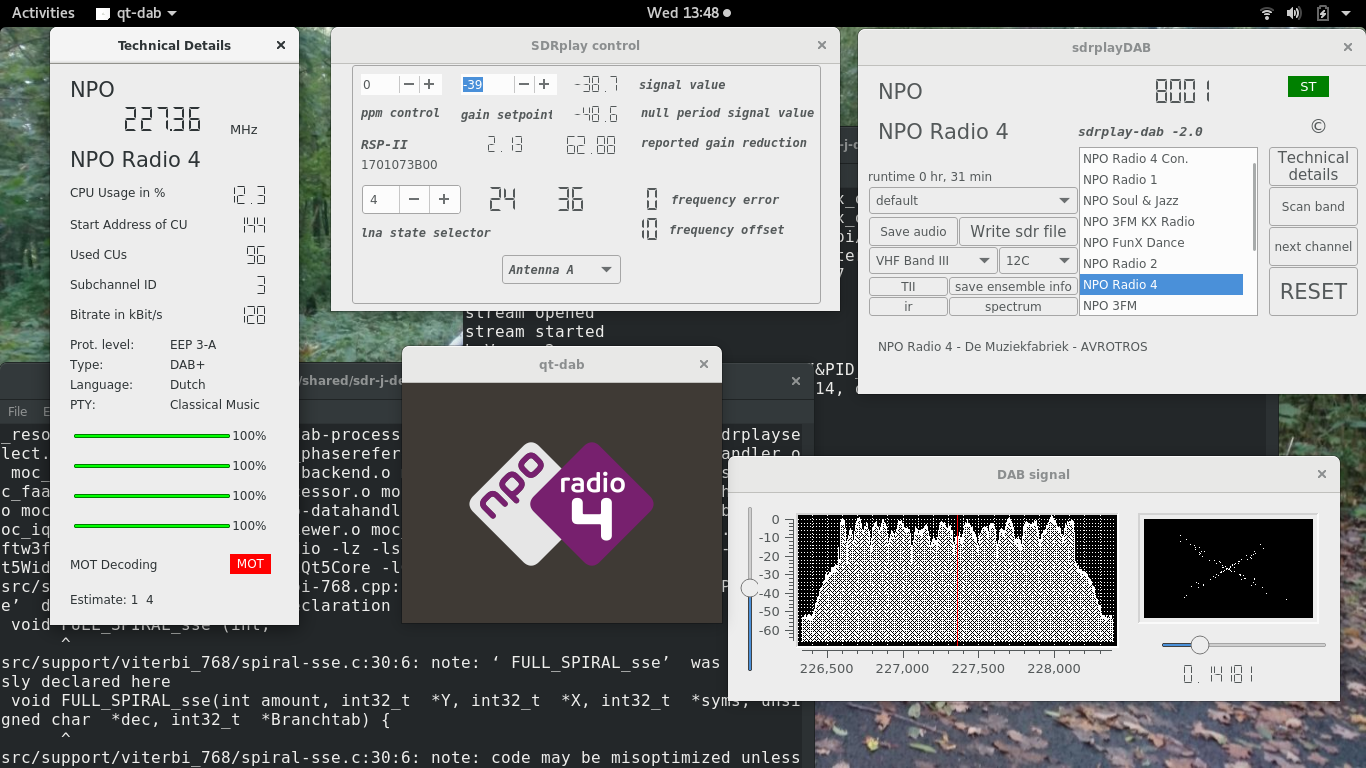
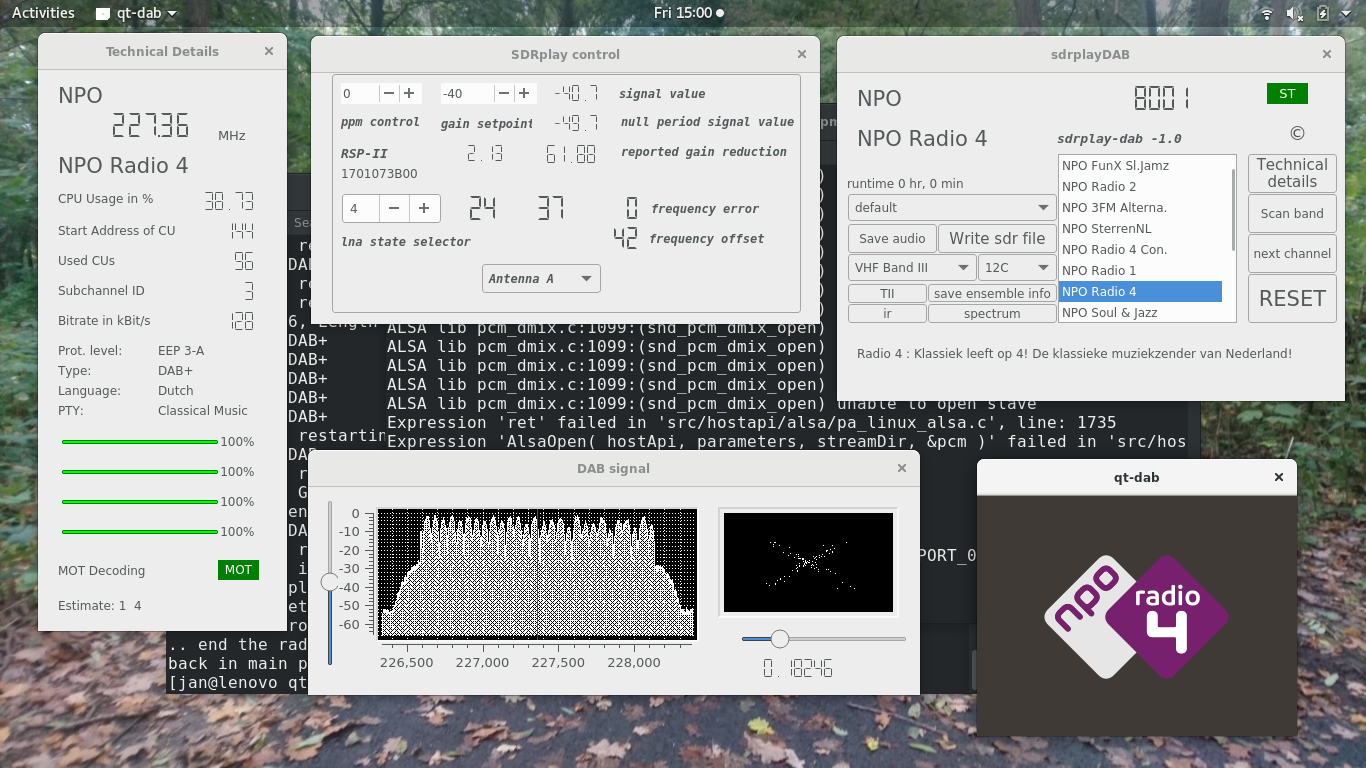
...

diff --git a/includes/dab-constants.h b/includes/dab-constants.h
@@ -64,7 +64,7 @@ using namespace std;
 #define	MHz(x)		(KHz (x) * 1000)
 #define	mHz(x)		(kHz (x) * 1000)
 
-#define	CURRENT_VERSION	"2.0"
+#define	CURRENT_VERSION	"1.0"
 
 #define		DAB		0100
 #define		DAB_PLUS	0101

diff --git a/README.md b/README.md
@@ -6,5 +6,9 @@ used in qt-dab.
 
 ![sdrplayDab](/sdrplay-dab.png?raw=true)
 
+Note that apart from device handling and ofdm handling, the code
+is the code from qt-dab.
+It is most likely that this code will be merged with the qt-dab code base.
+
 
 
